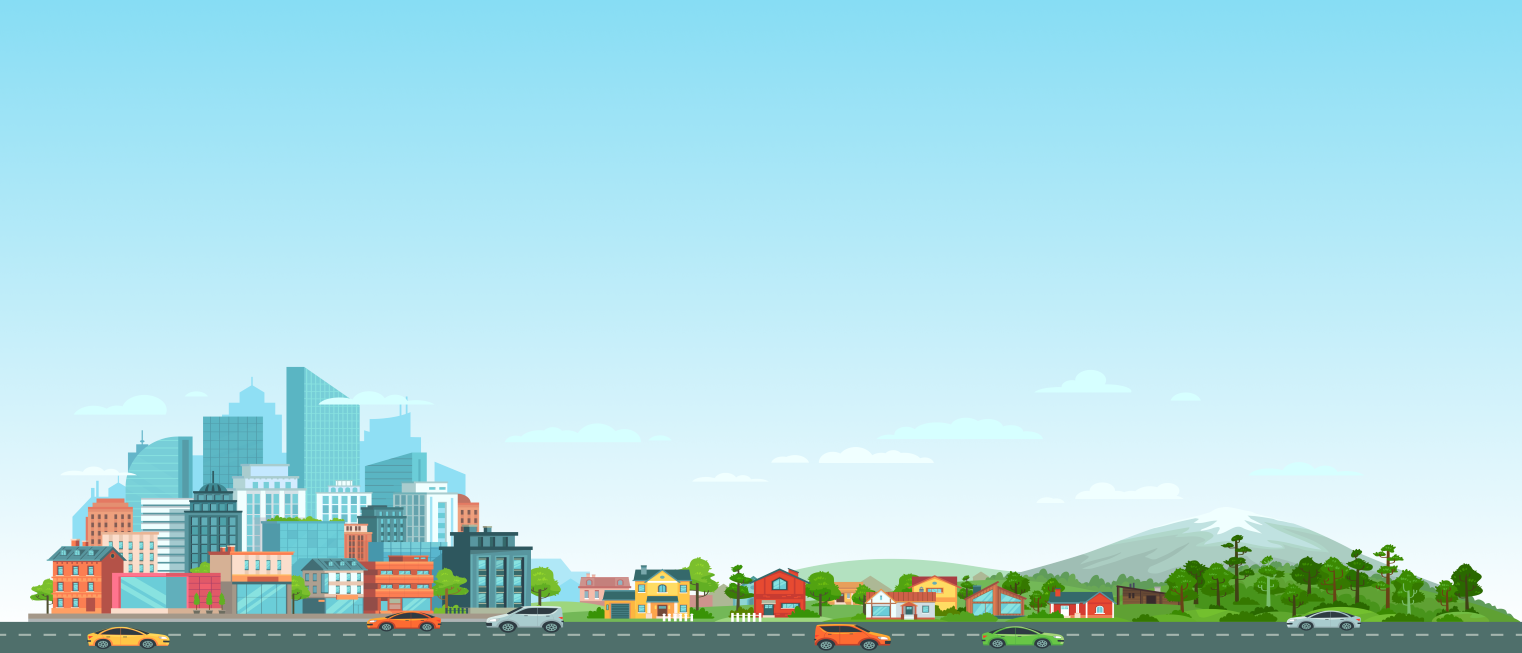
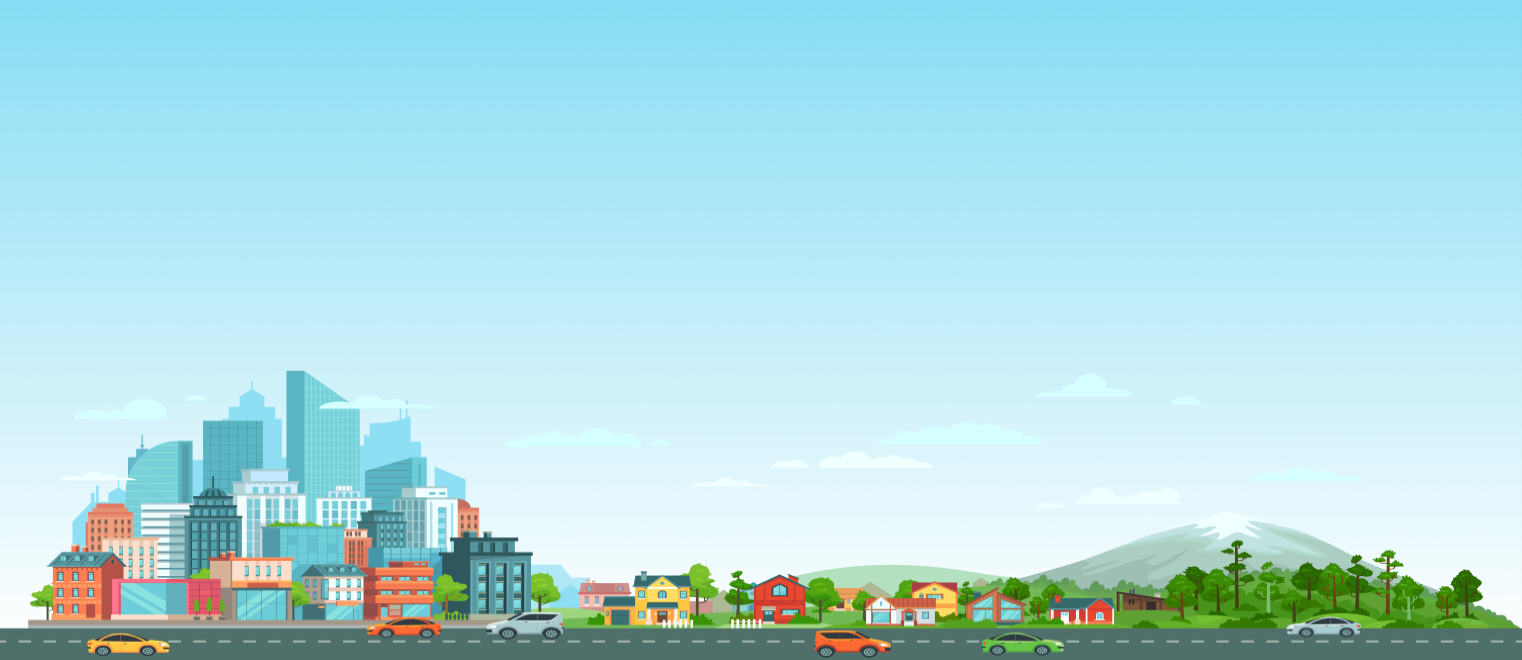
almost done

diff --git a/src/components/Login/Login.js b/src/components/Login/Login.js
@@ -1,7 +1,7 @@
-import React, { useContext } from 'react';
+import React, { useContext, useState } from 'react';
 import './Login.css';
 import { FontAwesomeIcon } from '@fortawesome/react-fontawesome';
-import {fab,faFacebook,faGooglePlus} from "@fortawesome/free-brands-svg-icons";
+import { faFacebook, faGooglePlus } from "@fortawesome/free-brands-svg-icons";
 import firebase from "firebase/app";
 import "firebase/auth";
 import firebaseConfig from "./firebase.config";
@@ -14,10 +14,22 @@ if (!firebase.apps.length) {
 }
 
 const Login = () => {
-    const [loggedInUser,setLoggedInUser] = useContext(UserContext);
+    const [newUser, setNewUser] = useState(false);
+    const [user, setUser] = useState({
+        isSignedIn: false,
+        name: '',
+        email: '',
+        photo: '',
+        password: '',
+        error: '',
+        success: false,
+
+    })
+
+    const [loggedInUser, setLoggedInUser] = useContext(UserContext);
     const history = useHistory();
     const location = useLocation();
-    const{ from } = location.state || { from: { pathname: "/" } };
+    const { from } = location.state || { from: { pathname: "/" } };
 
     const handleGoogleSignIn = () => {
         var googleProvider = new firebase.auth.GoogleAuthProvider();
@@ -41,31 +53,122 @@ const Login = () => {
             });
 
     }
+
+    const handleBlur = (e) => {
+
+        let isFieldValid = true;
+        if (e.target.name === 'email') {
+            isFieldValid = /\S+@\S+\.\S+/.test(e.target.value)
+            console.log(isFieldValid);
+        }
+        if (e.target.name === 'password') {
+            const isPasswordValid = e.target.value.length > 6;
+            const passwordHasNumber = /\d{1}/.test(e.target.value)
+            isFieldValid = passwordHasNumber && isPasswordValid;
+        }
+        if (isFieldValid) {
+            const newUserInfo = { ...user };
+            newUserInfo[e.target.name] = e.target.value;
+            setUser(newUserInfo);
+        }
+
+    }
+
+    const handleSubmit = (e) => {
+        // console.log(user.email && user.password);
+        if (newUser && user.email && user.password) {
+            firebase.auth().createUserWithEmailAndPassword(user.email, user.password)
+                .then((res) => {
+                    const newUserInfo = { ...user };
+                    newUserInfo.error = '';
+                    newUserInfo.success = true;
+                    setUser(newUserInfo);
+                    updateUserName(user.name);
+
+                })
+                .catch((error) => {
+                    const newUserInfo = { ...user };
+                    newUserInfo.error = error.message;
+                    newUserInfo.success = false;
+                    setUser(newUserInfo);
+                });
+        }
+        if(!newUser && user.email && user.password){
+            firebase.auth().signInWithEmailAndPassword(user.email, user.password)
+              .then(res => {
+                const newUserInfo = { ...user };
+                newUserInfo.error = '';
+                newUserInfo.success = true;
+                setUser(newUserInfo);
+                // console.log('sign in user info', res.user);
+                const { displayName, email } = res.user;
+                const signedInUser = { name: displayName, email };
+                setLoggedInUser(signedInUser);
+                history.replace(from);
+              })
+              .catch((error) => {
+                const newUserInfo = { ...user };
+                newUserInfo.error = error.message;
+                newUserInfo.success = false;
+                setUser(newUserInfo);
+              });
+      
+          }
+        e.preventDefault();
+    }
+
+    const updateUserName = name => {
+        var user = firebase.auth().currentUser;
+    
+        user.updateProfile({
+          displayName: name,
+        }).then(function () {
+          console.log('User name Updated Successfully');
+          // Update successful.
+        }).catch(function (error) {
+          console.log(error);
+          // An error happened.
+        });
+      }
     return (
         <div>
             <div className="login">
                 <h2>LOG IN</h2>
-                <form>
+
+                <form onSubmit={handleSubmit}>
                     <div className="login-input-field">
-                        <input type="text" name="email" placeholder="Enter Email Address" required />
+                    {newUser && <input onBlur={handleBlur} type="text" name="name" placeholder="Enter Your Name" required />}
 
                     </div>
                     <div className="login-input-field">
-                        <input type="password" name="password" placeholder="Enter Password" required />
+                        <input type="text" onBlur={handleBlur} name="email" placeholder="Enter Email Address" required />
+
+                    </div>
+                    <div className="login-input-field">
+                        <input type="password" onBlur={handleBlur} name="password" placeholder="Enter Password" required />
+                    </div>
+
+                    <div className="button">
+                        <input type="submit" value= {newUser ? 'Sign Up' : 'Logged In'} />
                     </div>
                 </form>
-                <div className="button">
-                    <input type="submit" value="Log In" />
+                <div className="mt-4 text-center">
+                    <input type="checkbox" onChange={() => setNewUser(!newUser)} name="newUser" id="" />
+                    <label className="ml-2" htmlFor="newUser"><strong> New User Sign Up</strong></label>
                 </div>
                 <hr />
                 <div>
                     <h6 className="or" style={{ textAlign: "center" }}>OR</h6>
                     <div>
-                        <button onClick={handleGoogleSignIn} className="anotherLoginBtn forClr1"> <FontAwesomeIcon style={{fontSize:"25px"}} className="mr-5" icon={faGooglePlus} />Continue With Google</button>
+                        <button onClick={handleGoogleSignIn} className="anotherLoginBtn forClr1"> <FontAwesomeIcon style={{ fontSize: "25px" }} className="mr-5" icon={faGooglePlus} />Continue With Google</button>
 
-                        <button className="anotherLoginBtn forClr2 mt-3"><FontAwesomeIcon style={{fontSize:"25px"}} className="mr-5" icon={faFacebook} />Continue With Facebook</button>
+                        <button className="anotherLoginBtn forClr2 mt-3"><FontAwesomeIcon style={{ fontSize: "25px" }} className="mr-5" icon={faFacebook} />Continue With Facebook</button>
                     </div>
 
+                </div>
+                <div>
+                    <p style={{ color: 'red' }}><strong>{user.error}</strong></p>
+                    {user.success && <p style={{ color: "green" }}><strong>User  {newUser ? 'Created' : 'Logged In'}  Successfully</strong></p>}
                 </div>
             </div>
 

diff --git a/src/components/Home/Home.js b/src/components/Home/Home.js
@@ -7,19 +7,19 @@ import './Home.css';
 
 const Home = () => {
 
-const [data,setData] = useState([]);
+    const [data, setData] = useState([]);
     useEffect(() => {
         setData(fakeData);
-    },[])
-    
+    }, [])
+
     return (
         <div className="home">
             <div className="home-ride">
-           {
-               data.map(dt => <Rides data={dt} key ={dt.id}></Rides>)
-           }
-           </div>
-            
+                {
+                    data.map(dt => <Rides data={dt} key={dt.id}></Rides>)
+                }
+            </div>
+
         </div>
     );
 };

diff --git a/src/components/RideDetail/RideDetail.js b/src/components/RideDetail/RideDetail.js
@@ -3,6 +3,7 @@ import { useParams } from 'react-router';
 import './RideDetail.css';
 import { Link } from 'react-router-dom';
 import Map from '../Map/Map';
+// import map from '../images/Map.png';
 
 const RideDetail = () => {
     const {id} = useParams();
@@ -37,7 +38,7 @@ const RideDetail = () => {
             </div>
 
             <div className="col-sm-5">
-            
+            {/* <img  style={{width:"100%"}} src={map} alt=""/> */}
                 <Map></Map>
             </div>
             

diff --git a/src/components/Home/Home.css b/src/components/Home/Home.css
@@ -1,10 +1,10 @@
 .home {
-    background-image: url('../images/Bg1.png');
+    background-image: url('../images/Bg4.png');
     background-repeat: no-repeat;
     background-position: center;
     background-size: cover;
     position: relative;
-    height: 90vh;
+    height: 93vh;
     
 }
 
@@ -13,7 +13,7 @@
 .home-ride {
     display: grid;
     grid-template-columns: repeat(4, 0.2fr);
-    margin-left: 300px;
+    margin-left: 360px;
     
 }
 @media (max-width: 768px) {

diff --git a/src/components/PriceDetail/PriceDetail.js b/src/components/PriceDetail/PriceDetail.js
@@ -2,7 +2,7 @@ import React from 'react';
 import './PriceDetail.css';
 import fakeData from '../../Fakedata/Fakedata.json';
 import { useParams } from 'react-router';
-import map from '../images/Map.png';
+// import map from '../images/Map.png';
 import icon from '../images/peopleicon.png';
 import { FontAwesomeIcon } from '@fortawesome/react-fontawesome'
 import { faLocationArrow } from '@fortawesome/free-solid-svg-icons'

diff --git a/src/components/Map/Map.js b/src/components/Map/Map.js
@@ -1,5 +1,5 @@
 import React from 'react';
-import { Map, InfoWindow, Marker, GoogleApiWrapper } from 'google-maps-react';
+import { Map,  Marker, GoogleApiWrapper } from 'google-maps-react';
 
 const GoogleMap = (props) => {
 

diff --git a/src/components/Login/Login.css b/src/components/Login/Login.css
@@ -49,7 +49,7 @@
     background: #fece0c;
     color: #332902;
     text-transform: uppercase;
-    letter-spacing: 5px;
+   
     font-weight: bold;
     border-radius: 10px;
     cursor: pointer;
